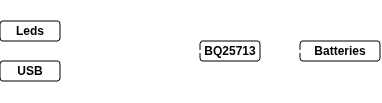
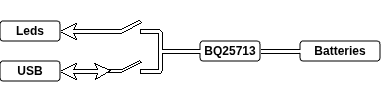
rebuilding site mer. 10 juin 2026 22:41:04 CEST

diff --git a/post/lamp-da_2_p2/index.html b/post/lamp-da_2_p2/index.html
@@ -127,7 +127,7 @@
     "name": "HUB Logs"
   },
   "timeRequired": "PT23M",
-  "wordCount": 4801
+  "wordCount": 4813
 }
 </script>
 
@@ -316,7 +316,7 @@
   
   
   
-    &nbsp;|&nbsp;<i class="fas fa-book"></i>&nbsp;4801&nbsp;mots
+    &nbsp;|&nbsp;<i class="fas fa-book"></i>&nbsp;4813&nbsp;mots
   
   
   
@@ -477,7 +477,7 @@ Utiliser un ruban plus fin reviendra aussi à utiliser plus de ruban en l&rsquo;
 <p>J&rsquo;ai donc choisi <strong>160 Leds/mètres à 12 V, format COB, ruban de 5 mm de large, consommation annoncée de 0.75 A/m</strong>, contrôlable avec le protocole WS2812B.</p>
 <p>Le choix aurait également pu être un ruban identique de 240 L/m, mais son prix était prohibitif par rapport à la différence visuelle, et la documentation en plus peu fiable sur ses caractéristiques physiques, et la mémoire nécessaire augmente rapidement.</p>
 <p>La longueur du ruban $L$ sera $L ≤ 19634.375 / 5$, c&rsquo;est a dire $L ≤ 3926.875 mm$.</p>
-<p>La lampe jaune sera donc équipée d&rsquo;un <strong>ruban de 4 mètres</strong>, ce qui donnera $4 m * 160 L/m$ = <strong>640 Leds individuellement contrôlables</strong>.</p>
+<p>La lampe colorée sera donc équipée d&rsquo;un <strong>ruban de 4 mètres</strong>, ce qui donnera $4 m * 160 L/m$ = <strong>640 Leds individuellement contrôlables</strong>.</p>
 <p>Sa consommation sera donc de $4 m * 0.75 A/m = 3 A$, c&rsquo;est-à-dire en Watt $3 * 12 V = 36 W$.</p>
 <h4 id="mesures-réelles-1">Mesures réelles</h4>
 <p>Mesures sur des échantillons réels sur banc d&rsquo;essai, longueur de 4M :</p>
@@ -538,6 +538,41 @@ Utiliser un ruban plus fin reviendra aussi à utiliser plus de ruban en l&rsquo;
       </tr>
   </tbody>
 </table>
+
+
+<div class="gallery caption-position-bottom caption-effect-fade hover-effect-grow hover-transition" itemscope itemtype="http://schema.org/ImageGallery">
+	  
+
+
+<div class="box fancy-figure caption-position-bottom caption-effect-fade" style="max-width:50%">
+  <figure itemprop="associatedMedia" itemscope itemtype="http://schema.org/ImageObject">
+    <div class="img" style="background-image: url('/static/lamp_da_2/led_yellow.png');">
+      <img itemprop="thumbnail" src="/static/lamp_da_2/led_yellow.png" alt="Ruban jaune 1800K 12V (Aliexpress)"/>
+    </div>
+    <a href="/static/lamp_da_2/led_yellow.png" itemprop="contentUrl" target="_blank"></a>
+      <figcaption><p>Ruban jaune 1800K 12V (Aliexpress)</p>
+      </figcaption>
+  </figure>
+</div>
+
+
+
+
+<div class="box fancy-figure caption-position-bottom caption-effect-fade" style="max-width:50%">
+  <figure itemprop="associatedMedia" itemscope itemtype="http://schema.org/ImageObject">
+    <div class="img" style="background-image: url('/static/lamp_da_2/led_rgb.png');">
+      <img itemprop="thumbnail" src="/static/lamp_da_2/led_rgb.png" alt="Ruban RGB indexable 12V 5mm 160L/m (Aliexpress)"/>
+    </div>
+    <a href="/static/lamp_da_2/led_rgb.png" itemprop="contentUrl" target="_blank"></a>
+      <figcaption><p>Ruban RGB indexable 12V 5mm 160L/m (Aliexpress)</p>
+      </figcaption>
+  </figure>
+</div>
+
+
+
+</div>
+
 <h2 id="protection-des-leds">Protection des Leds</h2>
 <p>Pour protéger les Leds de l’environnement, elles doivent être recouvertes par une protection transparente.</p>
 <p>Des rubans existent en IP67, mais pas ceux sélectionnés, qui sont IP20.</p>
@@ -842,8 +877,8 @@ Il peut également gérer jusqu&rsquo;à 6 A, ce qui est au-dessus de ce que les
 <p>Avec le chargeur, il faut prévoir un composant pour équilibrer les batteries entre elle, pour qu’elles soient toujours au même voltage.</p>
 
 
-<div class="box fancy-figure caption-position-bottom caption-effect-fade" >
-  <figure itemprop="associatedMedia" itemscope itemtype="http://schema.org/ImageObject">
+<div class="box fancy-figure caption-position-bottom caption-effect-fade center" >
+  <figure class="center" itemprop="associatedMedia" itemscope itemtype="http://schema.org/ImageObject">
     <div class="img">
       <img itemprop="thumbnail" src="/static/lamp_da_2/battery_unbalanced.png" alt="Le niveau des batteries n&#39;est plus identique, elles doivent être équilibrées"/>
     </div>
@@ -872,8 +907,8 @@ Le mode batterie externe est une fonctionnalité bonus à implémenter en softwa
 Il faudra aussi prévoir en software que le contrôle de la luminosité des rubans ne sera pas linéaire, car ils seront contrôlés par CV plutôt que CC.</p>
 
 
-<div class="box fancy-figure caption-position-bottom caption-effect-fade" style="max-width:50%">
-  <figure itemprop="associatedMedia" itemscope itemtype="http://schema.org/ImageObject">
+<div class="box fancy-figure caption-position-bottom caption-effect-fade center" style="max-width:50%">
+  <figure class="center" itemprop="associatedMedia" itemscope itemtype="http://schema.org/ImageObject">
     <div class="img">
       <img itemprop="thumbnail" src="/static/lamp_da_2/electrical_gates.png" alt="Power Rail: rail de puissance commun aux Leds et au port USB"/>
     </div>
@@ -892,8 +927,8 @@ Il faudra aussi prévoir en software que le contrôle de la luminosité des ruba
 <p>Pour la porte de puissance des Leds, création d’une porte sur mesure à base de MOSFET P-channel, les mêmes que j’ai utilisés autour du chargeur de batteries.</p>
 
 
-<div class="box fancy-figure caption-position-bottom caption-effect-fade" style="max-width:50%">
-  <figure itemprop="associatedMedia" itemscope itemtype="http://schema.org/ImageObject">
+<div class="box fancy-figure caption-position-bottom caption-effect-fade center" style="max-width:50%">
+  <figure class="center" itemprop="associatedMedia" itemscope itemtype="http://schema.org/ImageObject">
     <div class="img">
       <img itemprop="thumbnail" src="/static/lamp_da_2/low_high_side_gates.png" alt="À gauche, High side gate. À droite, Low side gate"/>
     </div>
@@ -1045,8 +1080,8 @@ Cette porte permettra en plus de réinitialiser ces composants en cas de crash.<
 <p>Ce composant ajout une étape de vissage lors de l&rsquo;assemblage, et cinq fils de plus à souder (4 pour la led, 2 pour le bouton).</p>
 
 
-<div class="box fancy-figure caption-position-bottom caption-effect-fade" style="max-width:50%">
-  <figure itemprop="associatedMedia" itemscope itemtype="http://schema.org/ImageObject">
+<div class="box fancy-figure caption-position-bottom caption-effect-fade center" style="max-width:50%">
+  <figure class="center" itemprop="associatedMedia" itemscope itemtype="http://schema.org/ImageObject">
     <div class="img">
       <img itemprop="thumbnail" src="/static/lamp_da_2/rgb_button.png" alt="Bouton RGB"/>
     </div>

diff --git a/index.html b/index.html
@@ -549,7 +549,7 @@
   
   
   
-    &nbsp;|&nbsp;<i class="fas fa-book"></i>&nbsp;4801&nbsp;mots
+    &nbsp;|&nbsp;<i class="fas fa-book"></i>&nbsp;4813&nbsp;mots
   
   
   

diff --git a/post/index.html b/post/index.html
@@ -525,7 +525,7 @@
   
   
   
-    &nbsp;|&nbsp;<i class="fas fa-book"></i>&nbsp;4801&nbsp;mots
+    &nbsp;|&nbsp;<i class="fas fa-book"></i>&nbsp;4813&nbsp;mots
   
   
   

diff --git a/tags/design/index.html b/tags/design/index.html
@@ -504,7 +504,7 @@
   
   
   
-    &nbsp;|&nbsp;<i class="fas fa-book"></i>&nbsp;4801&nbsp;mots
+    &nbsp;|&nbsp;<i class="fas fa-book"></i>&nbsp;4813&nbsp;mots
   
   
   

diff --git a/tags/electronic/index.html b/tags/electronic/index.html
@@ -504,7 +504,7 @@
   
   
   
-    &nbsp;|&nbsp;<i class="fas fa-book"></i>&nbsp;4801&nbsp;mots
+    &nbsp;|&nbsp;<i class="fas fa-book"></i>&nbsp;4813&nbsp;mots
   
   
   